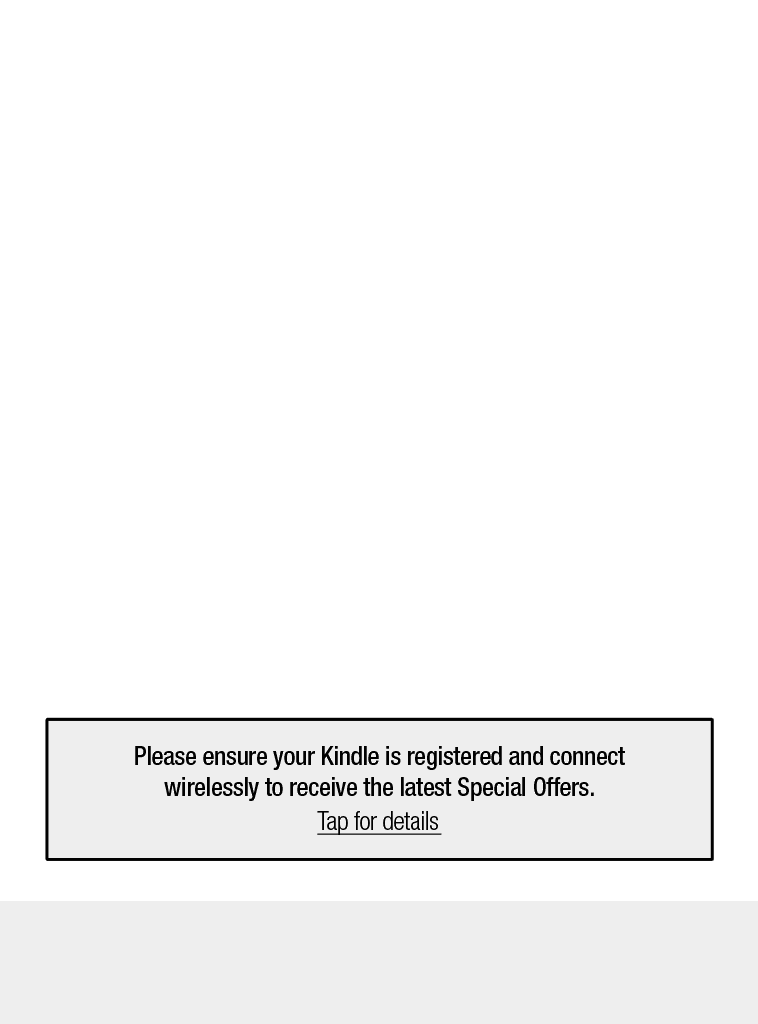
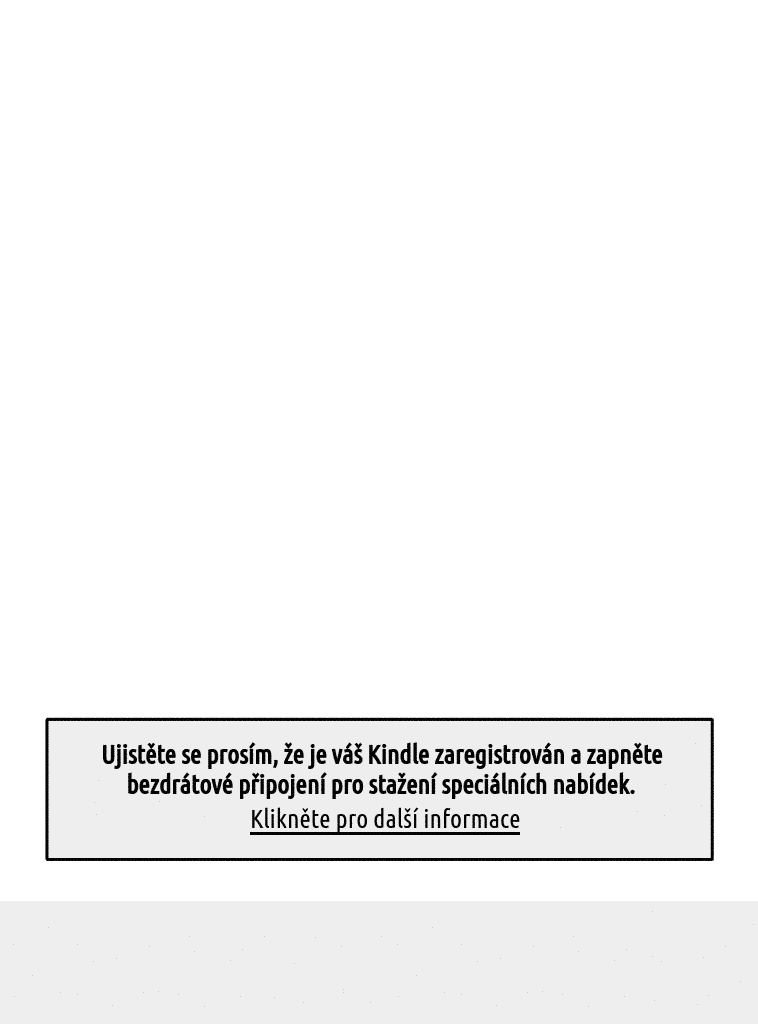
Translated some forgotten pieces Changed the install process to avoid language pack corruption Added original_fontsizes flag file to hack

Changed region(s): [[0.1214, 0.7188, 0.8799, 0.8125]]

diff --git a/translation_5.4.2/other/opt/var/local/mesquite/shared/locales/en-GB/odac_error.html b/translation_5.4.2/other/opt/var/local/mesquite/shared/locales/en-GB/odac_error.html
@@ -15,10 +15,10 @@
     </style>                                                                                                          
 </head>                                                                          
 <body>                                                                                                                
-    <h1>Unable to Load</h1>                                                                                          
-    <p>Please tap Exit and try registering again once you have a reliable wireless connection. You can register later by selecting Settings from the Menu, then selecting Registration.</p>
+    <h1>Nelze načíst</h1>                                                                                          
+    <p>Klikněte prosím na Konec a zkuste se zaregistrovat znovu až budete mít spolehlivé připojení k Internetu. Zaregistrovat Kindle můžete později výběrem položky Nastavení z menu a kliknutím na volbu Registrace.</p>
     <div id="buttonArea" class="dialog">                                                                              
-        <input type="button" class="exitButton" value="Exit" onclick="kindle.appmgr.start('com.lab126.booklet.home');">
+        <input type="button" class="exitButton" value="Konec" onclick="kindle.appmgr.start('com.lab126.booklet.home');">
     </div>                                                                                                            
 </body>                                                                                                               
 </html>   

diff --git a/translation_5.4.2/other/opt/var/local/mesquite/shared/locales/en-GB/prime_error.html b/translation_5.4.2/other/opt/var/local/mesquite/shared/locales/en-GB/prime_error.html
@@ -15,8 +15,8 @@
     </style>                                                                                                          
 </head>                                                                          
 <body>                                                                                                                
-    <h1>Unable to Load</h1>                                                                                          
-    <p>Unable to load the Prime web page. Please press the OK button to continue.</p>
+    <h1>Nelze načíst</h1>                                                                                          
+    <p>Nelze načíst webovou stránku Prime. Klikněte prosím na tlačítko OK pro pokračování.</p>
     <div id="buttonArea" class="dialog">                                                                              
         <input type="button" class="exitButton" value="OK" onclick="kindle.appmgr.start('com.lab126.booklet.oobe.tutorial');">
     </div>                                                                                                            

diff --git a/translation_5.4.2/other/opt/var/local/mesquite/shared/locales/en-GB/default_error.html b/translation_5.4.2/other/opt/var/local/mesquite/shared/locales/en-GB/default_error.html
@@ -6,7 +6,7 @@
     <link rel="stylesheet" type="text/css" href="stylesheets/default_error.css" />
 </head>
 <body>
-    <h1>There was a problem loading this page</h1>
-    <p>Tap the Back button and try reloading from the previous page.</p>
+    <h1>Při načítání této stránky nastal problém.</h1>
+    <p>Klikněte na tlačítko Zpět a zkuste načíst stránku znovu.</p>
 </body>
 </html>
